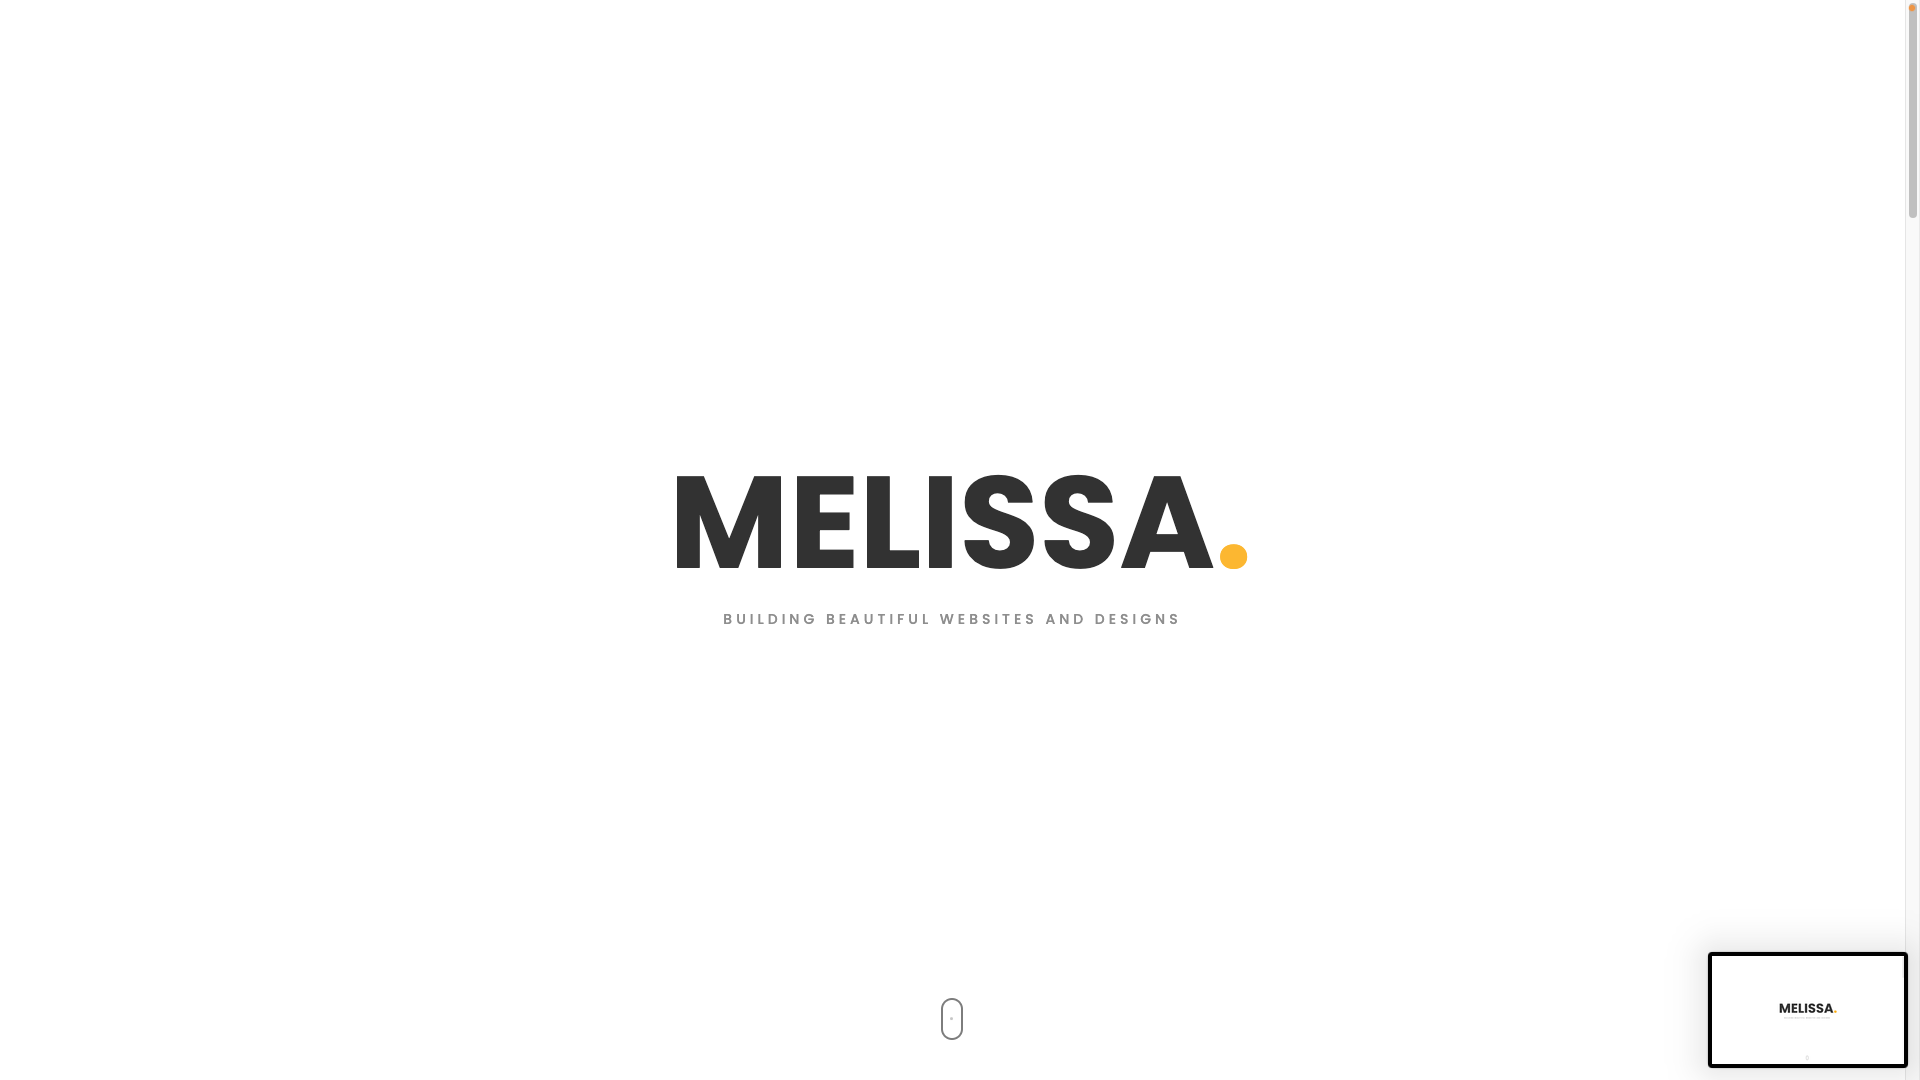
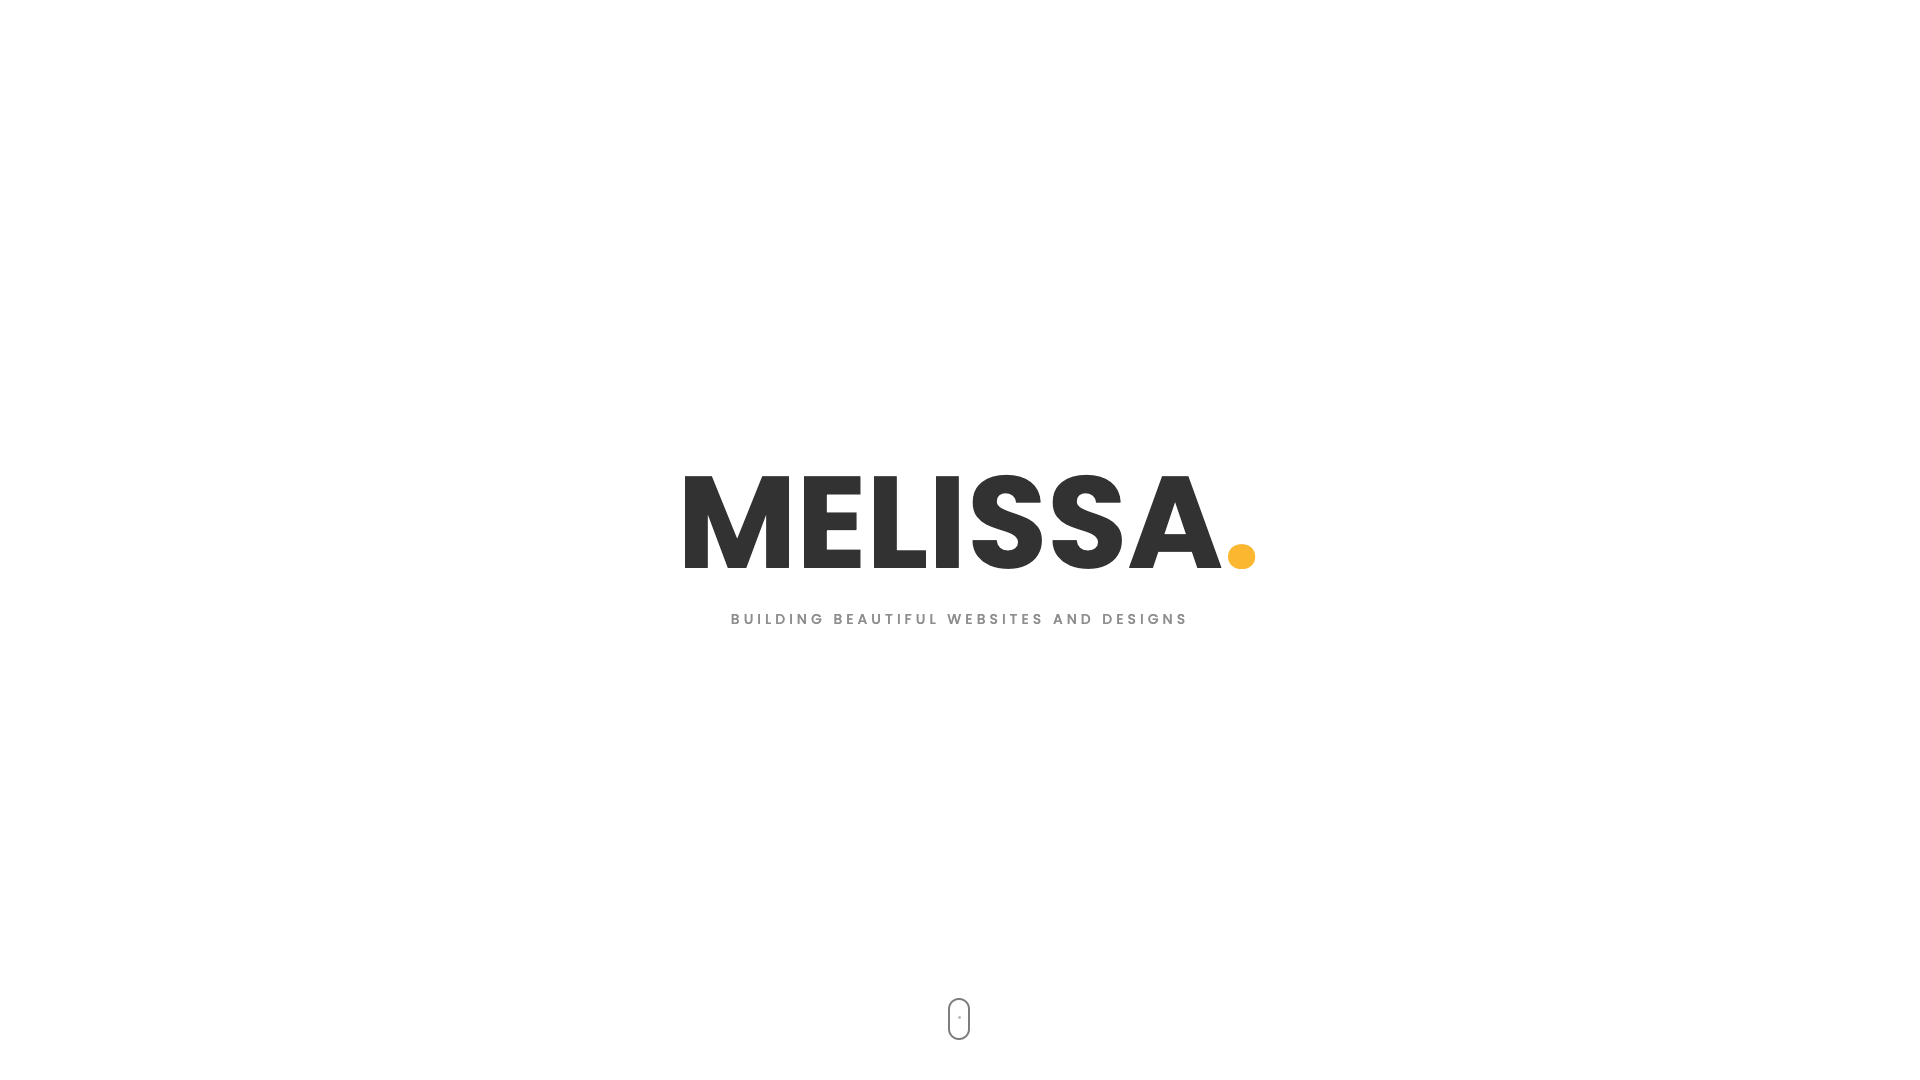
changed screenshot img for readme

diff --git a/css/style.css b/css/style.css
@@ -34,6 +34,9 @@
 html {
     scroll-behavior: smooth;
 }
+::-webkit-scrollbar {
+    display: none;
+}
 
 html,
 body {
